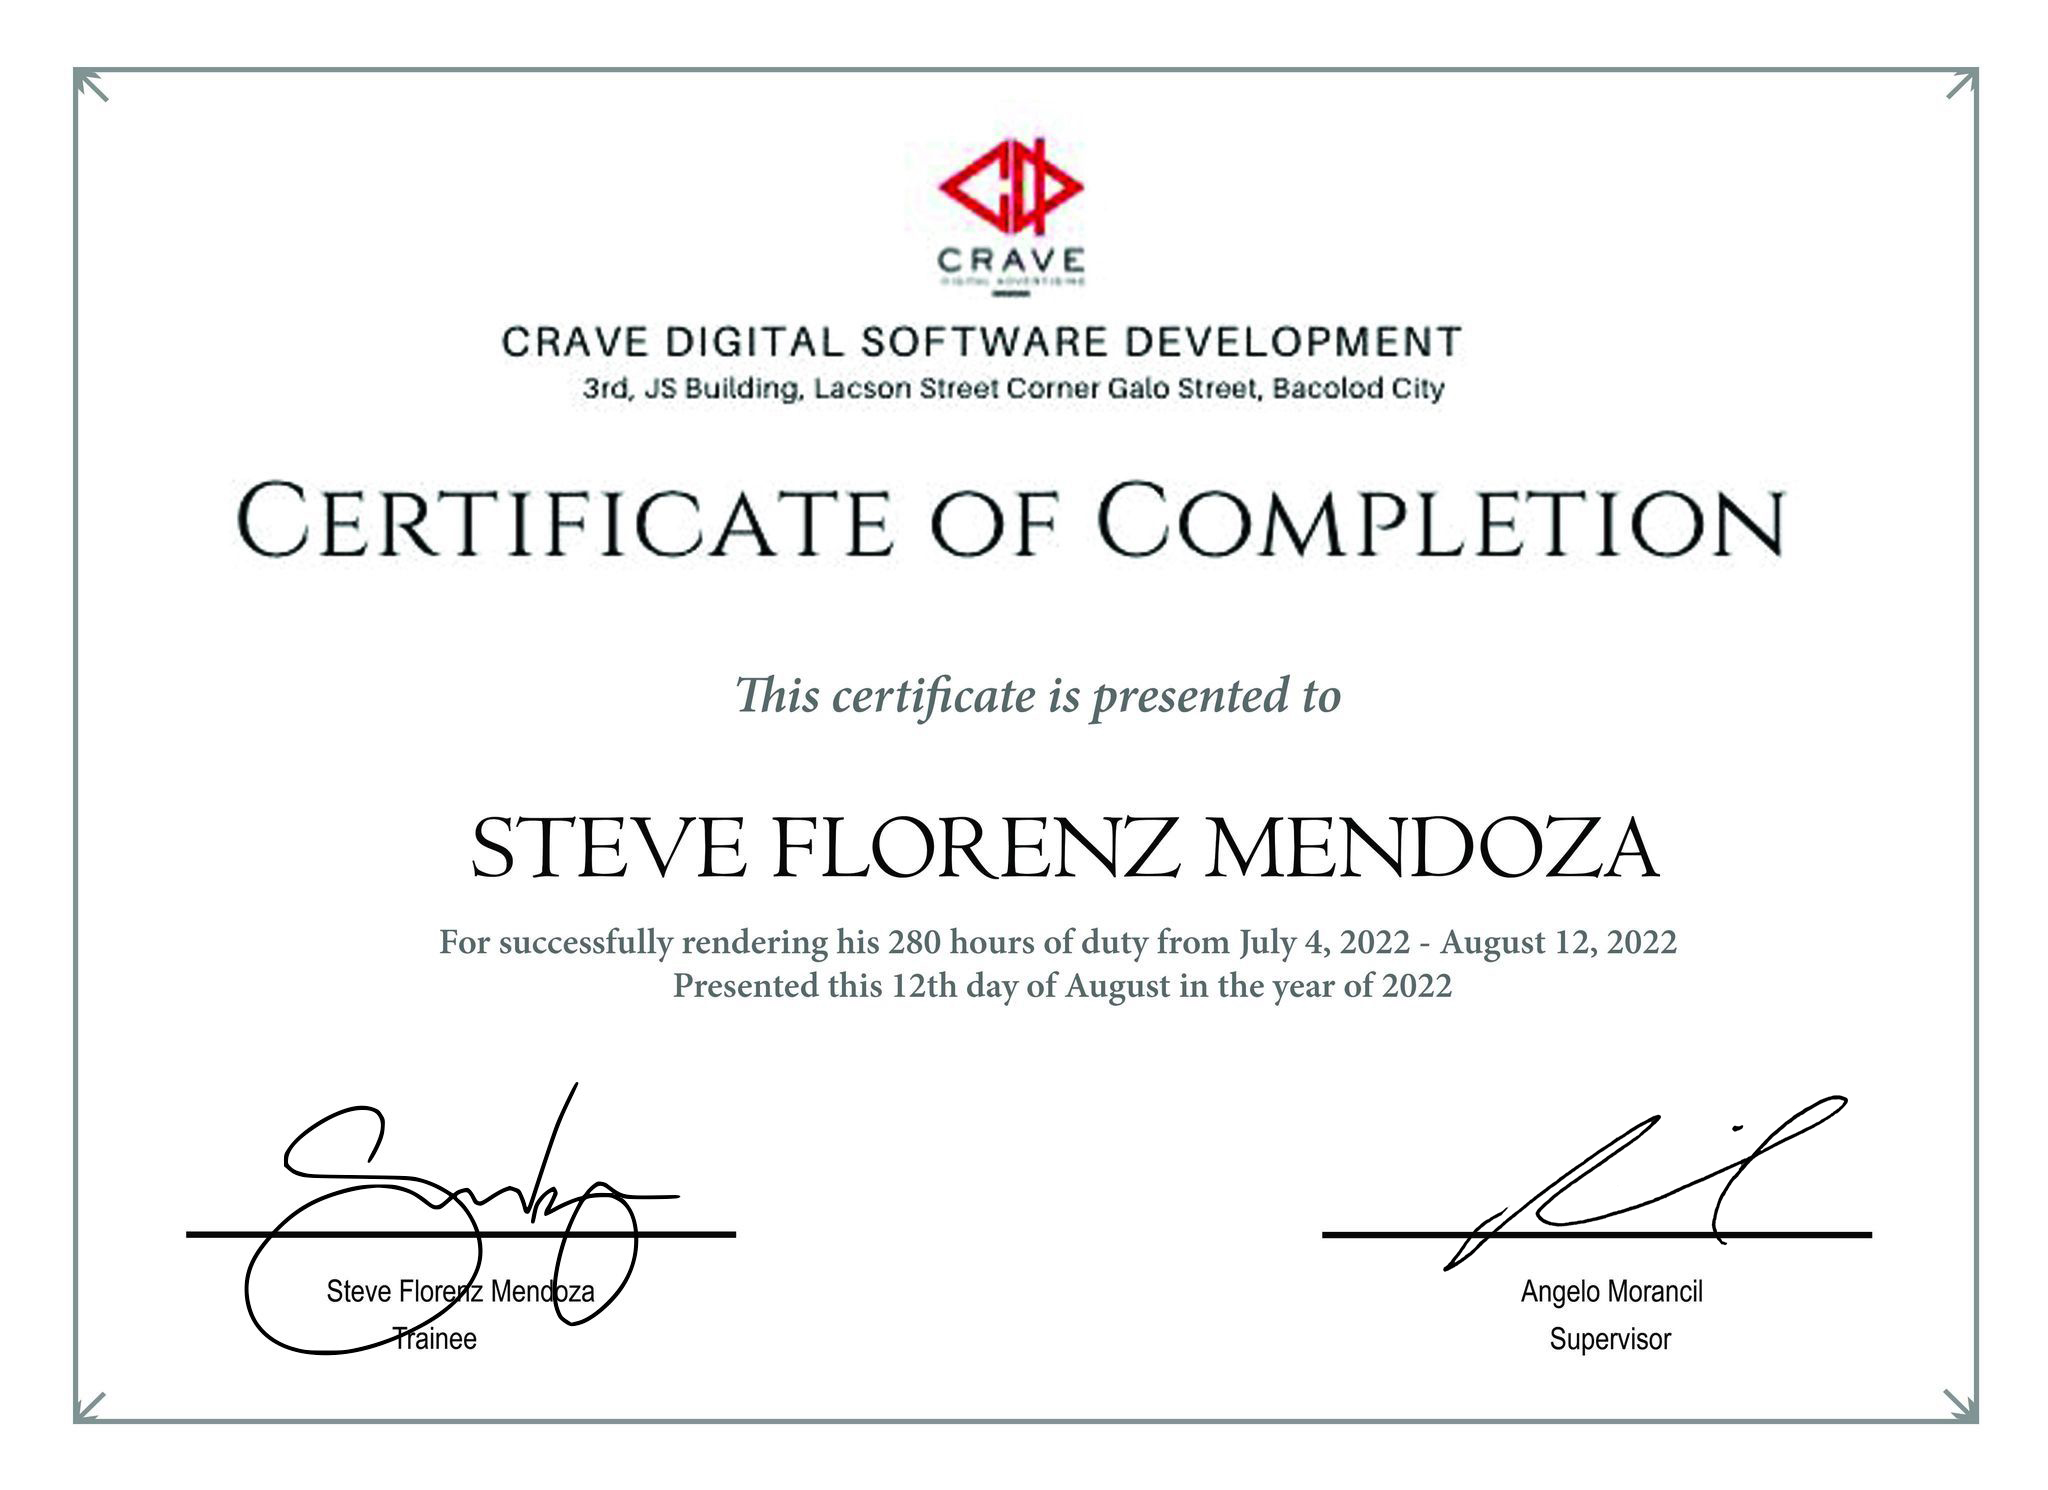
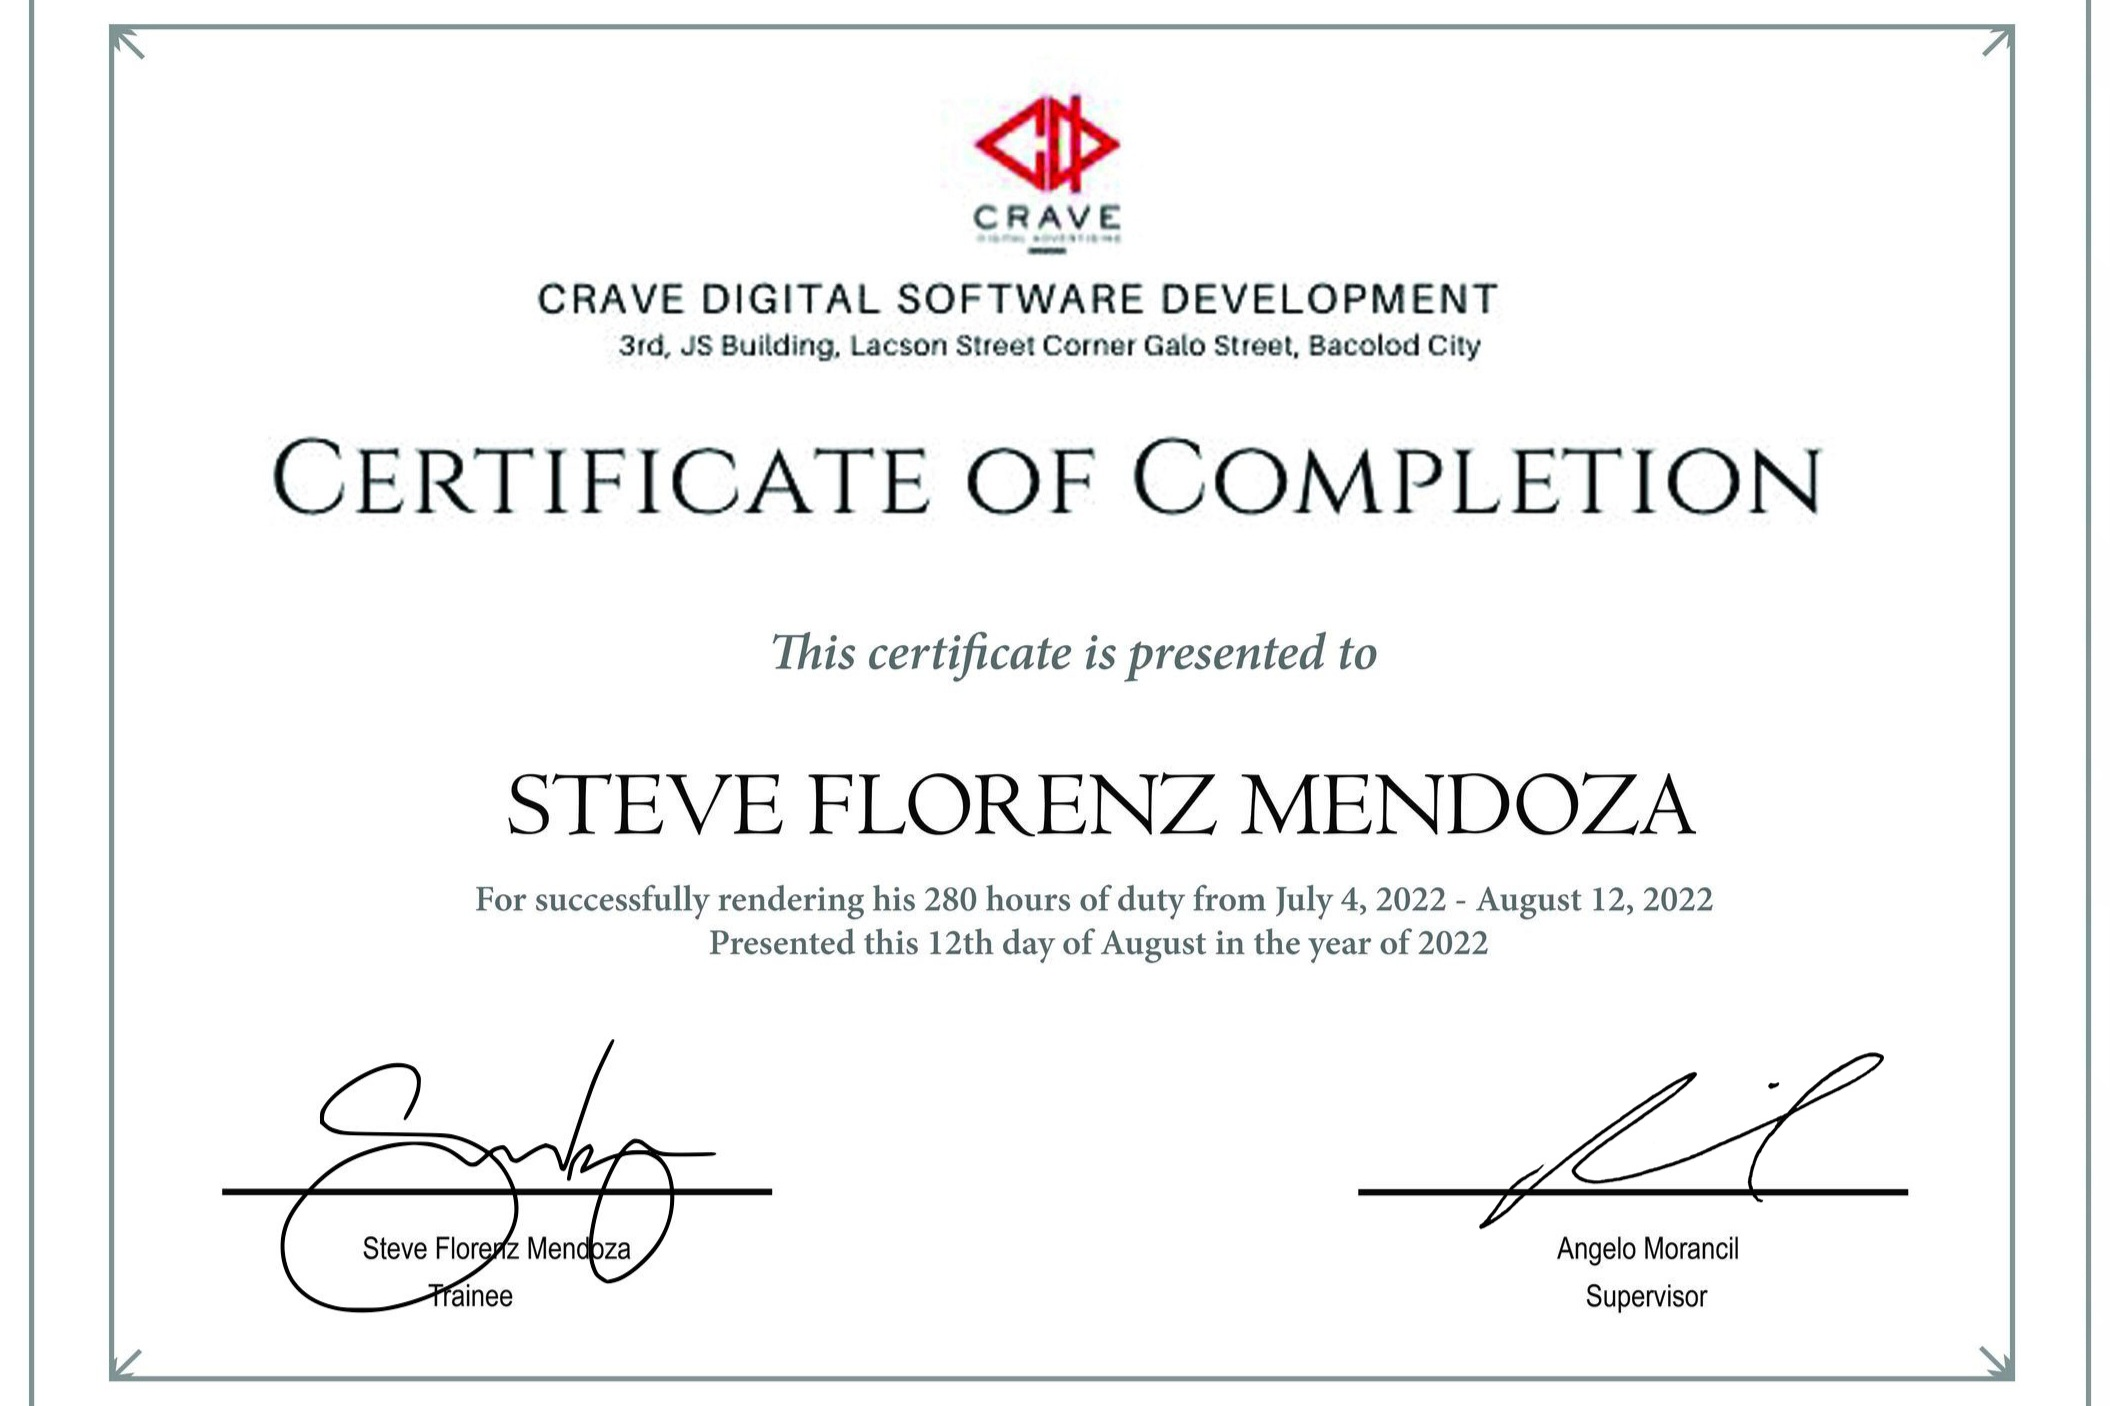
Oct 20 update
- deleted irrelevant certificate
- changed ojt cert size

diff --git a/thesis.html b/thesis.html
@@ -1,0 +1,70 @@
+<!DOCTYPE HTML>
+<!--
+	Hyperspace by HTML5 UP
+	html5up.net | @ajlkn
+	Free for personal and commercial use under the CCA 3.0 license (html5up.net/license)
+-->
+<html>
+	<head>
+		<title>Generic - Hyperspace by HTML5 UP</title>
+		<meta charset="utf-8" />
+		<meta name="viewport" content="width=device-width, initial-scale=1, user-scalable=no" />
+		<link rel="stylesheet" href="assets/css/main.css" />
+		<noscript><link rel="stylesheet" href="assets/css/noscript.css" /></noscript>
+		<link rel="stylesheet" href="https://cdnjs.cloudflare.com/ajax/libs/font-awesome/4.7.0/css/font-awesome.min.css">
+		<link href="https://fonts.googleapis.com/icon?family=Material+Icons" rel="stylesheet">
+		<script src='https://kit.fontawesome.com/a076d05399.js' crossorigin='anonymous'></script>
+		<link rel="preconnect" href="https://fonts.googleapis.com">
+		<link rel="preconnect" href="https://fonts.gstatic.com" crossorigin>
+		<link href="https://fonts.googleapis.com/css2?family=Poppins&display=swap" rel="stylesheet">
+	</head>
+	<body class="is-preload">
+
+		<!-- Header -->
+			<header id="header">
+				<a href="index.html" class="title">Thesis</a>
+				<nav>
+					<ul>
+						<li><a href="index.html">Home Page</a></li>
+					</ul>
+				</nav>
+			</header>
+
+		<!-- Wrapper -->
+			<div id="wrapper">
+
+				<!-- Main -->
+					<section id="main" class="wrapper">
+						<div class="inner">
+							<h1 class="major">Campus E-forum with Chatbot</h1>
+							<span class="image fit"><img src="images/thesis_project_sc.png" alt="" /></span>
+							<p class="justify-txt">
+								During my academic project
+							</p>
+						</div>
+					</section>
+
+			</div>
+
+		<!-- Footer -->
+		<footer id="footer" class="wrapper style1-alt">
+			<div class="inner">
+				<ul class="menu">
+					<!-- <li>&copy; Untitled. All rights reserved.</li><li>Design: <a href="http://html5up.net">HTML5 UP</a></li> -->
+					<li> Florenz's Portfolio</li>
+					<!-- <li>Thanks to: <a href="http://html5up.net">HTML5 UP</a></li> -->
+				</ul>
+			</div>
+		</footer>
+
+		<!-- Scripts -->
+			<script src="assets/js/jquery.min.js"></script>
+			<script src="assets/js/jquery.scrollex.min.js"></script>
+			<script src="assets/js/jquery.scrolly.min.js"></script>
+			<script src="assets/js/browser.min.js"></script>
+			<script src="assets/js/breakpoints.min.js"></script>
+			<script src="assets/js/util.js"></script>
+			<script src="assets/js/main.js"></script>
+
+	</body>
+</html>

diff --git a/index.html b/index.html
@@ -85,7 +85,7 @@
 								</div>
 								<div class="row1">
 									<div class="column1">
-										<img src="images/Certificate of Participation.png" alt="" style="width: 100%;">
+										<img src="images/workshopcert.jpg" alt="" style="width: 100%;">
 									</div>
 									<div class="column1">
 										<img src="images/teb_cert.jpg" alt="" style="width: 100%;">
@@ -93,10 +93,10 @@
 								</div>
 								<div class="row1">
 									<div class="column1">
-										<img src="images/workshopcert.jpg" alt="" style="width: 100%;">
+										<img src="images/kaggle.png" alt="" style="width: 100%;">
 									</div>
 									<div class="column1">
-										<img src="images/kaggle.png" alt="" style="width: 100%;">
+										<!-- <img src="" alt="" style="width: 100%;"> -->
 									</div>
 								</div>
 							</section>
